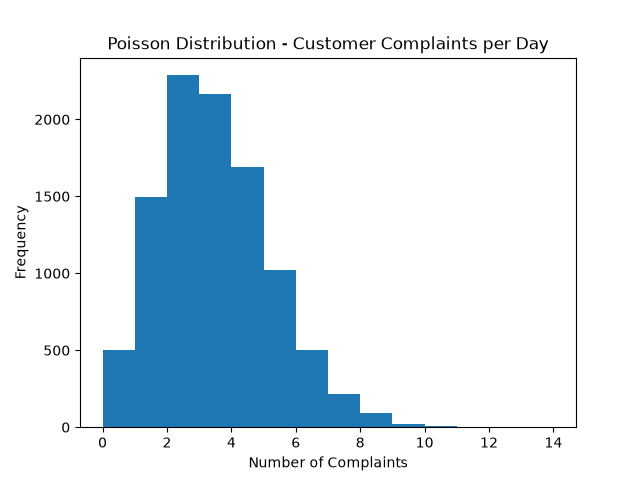
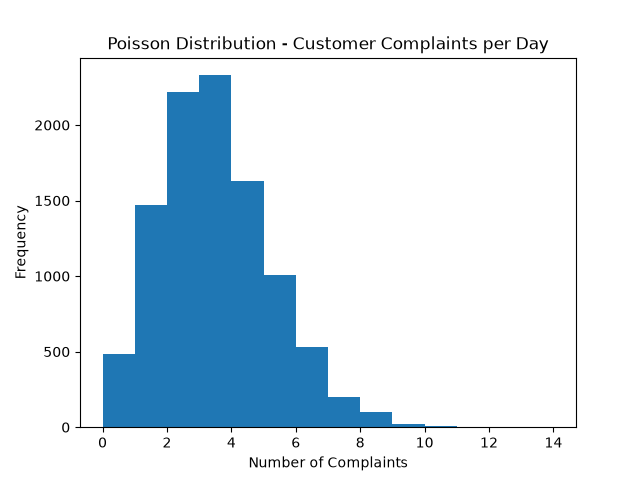
Phase 3 Lesson 6 - Hypothesis Testing and A/B Testing

diff --git a/phase3/lesson5_prob_dist.py b/phase3/lesson5_prob_dist.py
@@ -46,24 +46,98 @@ import matplotlib.pyplot as plt
 # plt.savefig("binomial_distribution.png")
 # plt.show()
 
-import random
+# import random
 
-def simulate_poisson(lambda_rate, n_experiments):
-    """Simulate number of events occurring, given average rate lambda_rate"""
-    results = []
-    for _ in range(n_experiments):
-        # Simple simulation: break the interval into many tiny slices, 
-        # each with small probability of an event
-        events = sum(1 for _ in range(1000) if random.random() < lambda_rate/1000)
-        results.append(events)
-    return results
+# def simulate_poisson(lambda_rate, n_experiments):
+#     """Simulate number of events occurring, given average rate lambda_rate"""
+#     results = []
+#     for _ in range(n_experiments):
+#         # Simple simulation: break the interval into many tiny slices, 
+#         # each with small probability of an event
+#         events = sum(1 for _ in range(1000) if random.random() < lambda_rate/1000)
+#         results.append(events)
+#     return results
 
-# Simulate: average 3 customer complaints per day, repeat 10000 days
-results = simulate_poisson(3, 10000)
+# # Simulate: average 3 customer complaints per day, repeat 10000 days
+# results = simulate_poisson(3, 10000)
 
-plt.hist(results, bins=range(15))
-plt.title("Poisson Distribution - Customer Complaints per Day")
-plt.xlabel("Number of Complaints")
-plt.ylabel("Frequency")
-plt.savefig("poisson_distribution.png")
-plt.show()
+# plt.hist(results, bins=range(15))
+# plt.title("Poisson Distribution - Customer Complaints per Day")
+# plt.xlabel("Number of Complaints")
+# plt.ylabel("Frequency")
+# plt.savefig("poisson_distribution.png")
+# plt.show()
+
+
+# # import random
+
+# # def simulate_ab_test_under_null(n_users, true_click_rate, n_simulations):
+# #     """
+# #     Simulates running the SAME button (no real difference) on two groups,
+# #     many times, to see how much random variation we'd expect by chance alone.
+# #     """
+# #     differences = []
+    
+# #     for _ in range(n_simulations):
+# #         # Simulate group A
+# #         clicks_a = sum(1 for _ in range(n_users) if random.random() < true_click_rate)
+# #         # Simulate group B — SAME true rate, since H0 assumes no real difference
+# #         clicks_b = sum(1 for _ in range(n_users) if random.random() < true_click_rate)
+        
+# #         rate_a = clicks_a / n_users
+# #         rate_b = clicks_b / n_users
+# #         differences.append(rate_b - rate_a)
+    
+# #     return differences
+
+# # # Simulate 1000 users per group, true rate 10%, repeat 10000 times
+# # diffs = simulate_ab_test_under_null(1000, 0.10, 10000)
+
+# # import matplotlib.pyplot as plt
+# # plt.hist(diffs, bins=50)
+# # plt.title("Distribution of Differences Under Null Hypothesis (No Real Effect)")
+# # plt.xlabel("Difference in Click Rate (B - A)")
+# # plt.savefig("null_distribution.png")
+# # plt.show()
+
+# # # Our actual observed difference was 11.2% - 10% = 1.2%
+# # observed_diff = 0.112 - 0.100
+
+# # # How many of our simulated "no real difference" trials produced 
+# # # a difference AT LEAST as extreme as what we observed?
+# # extreme_count = sum(1 for d in diffs if abs(d) >= abs(observed_diff))
+# # p_value = extreme_count / len(diffs)
+
+# # print(f"Observed difference: {observed_diff:.4f}")
+# # print(f"P-value: {p_value:.4f}")
+
+# import random
+
+# def simulate_ab_test_under_null(n_users, true_click_rate, n_simulations):
+#     differences = []
+#     for _ in range(n_simulations):
+#         clicks_a = sum(1 for _ in range(n_users) if random.random() < true_click_rate)
+#         clicks_b = sum(1 for _ in range(n_users) if random.random() < true_click_rate)
+#         rate_a = clicks_a / n_users
+#         rate_b = clicks_b / n_users
+#         differences.append(rate_b - rate_a)
+#     return differences
+
+# diffs = simulate_ab_test_under_null(1000, 0.10, 10000)
+
+# observed_diff = 0.112 - 0.100
+# extreme_count = sum(1 for d in diffs if abs(d) >= abs(observed_diff))
+# p_value = extreme_count / len(diffs)
+
+# print(f"Observed difference: {observed_diff:.4f}")
+# print(f"P-value: {p_value:.4f}")
+
+
+from scipy import stats
+import numpy as np
+
+group_a = np.array([1]*100 + [0]*900)
+group_b = np.array([1]*112 + [0]*888)
+
+t_stat, p_value = stats.ttest_ind(group_a, group_b)
+print(f"P-value: {p_value:.4f}")

diff --git a/phase3/lesson7_ab_testing.py b/phase3/lesson7_ab_testing.py
@@ -1,0 +1,104 @@
+import random
+
+def simulate_ab_test_under_null(n_users, true_click_rate, n_simulations):
+    """
+    Simulates running the SAME button (no real difference) on two groups,
+    many times, to see how much random variation we'd expect by chance alone.
+    """
+    differences = []
+    
+    for _ in range(n_simulations):
+        # Simulate group A
+        clicks_a = sum(1 for _ in range(n_users) if random.random() < true_click_rate)
+        # Simulate group B — SAME true rate, since H0 assumes no real difference
+        clicks_b = sum(1 for _ in range(n_users) if random.random() < true_click_rate)
+        
+        rate_a = clicks_a / n_users
+        rate_b = clicks_b / n_users
+        differences.append(rate_b - rate_a)
+    
+    return differences
+
+# Simulate 1000 users per group, true rate 10%, repeat 10000 times
+diffs = simulate_ab_test_under_null(1000, 0.10, 10000)
+
+import matplotlib.pyplot as plt
+plt.hist(diffs, bins=50)
+plt.title("Distribution of Differences Under Null Hypothesis (No Real Effect)")
+plt.xlabel("Difference in Click Rate (B - A)")
+plt.savefig("null_distribution.png")
+plt.show()
+
+# Our actual observed difference was 11.2% - 10% = 1.2%
+observed_diff = 0.112 - 0.100
+
+# How many of our simulated "no real difference" trials produced 
+# a difference AT LEAST as extreme as what we observed?
+extreme_count = sum(1 for d in diffs if abs(d) >= abs(observed_diff))
+p_value = extreme_count / len(diffs)
+
+print(f"Observed difference: {observed_diff:.4f}")
+print(f"P-value: {p_value:.4f}")
+
+
+
+
+
+import random
+
+def simulate_fair_coin_100_flips():
+    """One experiment: flip a fair coin 100 times, count heads"""
+    heads = sum(1 for _ in range(100) if random.random() < 0.5)
+    return heads
+
+# Repeat this experiment 10000 times
+results = [simulate_fair_coin_100_flips() for _ in range(10000)]
+
+print(results[:20])    # show first 20 results, just to look at them
+
+
+
+import random
+
+def simulate_ab_test_under_null(n_users, true_click_rate, n_simulations):
+    differences = []
+    for _ in range(n_simulations):
+        clicks_a = sum(1 for _ in range(n_users) if random.random() < true_click_rate)
+        clicks_b = sum(1 for _ in range(n_users) if random.random() < true_click_rate)
+        rate_a = clicks_a / n_users
+        rate_b = clicks_b / n_users
+        differences.append(rate_b - rate_a)
+    return differences
+
+diffs = simulate_ab_test_under_null(1000, 0.10, 10000)
+
+observed_diff = 0.112 - 0.100
+extreme_count = sum(1 for d in diffs if abs(d) >= abs(observed_diff))
+p_value = extreme_count / len(diffs)
+
+print(f"Observed difference: {observed_diff:.4f}")
+print(f"P-value: {p_value:.4f}")
+
+
+
+from scipy import stats
+
+# Group A (old button): 100 clicks out of 1000
+# Group B (new button): 112 clicks out of 1000
+
+import numpy as np
+group_a = np.array([1]*100 + [0]*900)     # 100 clicks, 900 no-clicks
+group_b = np.array([1]*112 + [0]*888)      # 112 clicks, 888 no-clicks
+
+t_stat, p_value = stats.ttest_ind(group_a, group_b)
+print(f"P-value: {p_value:.4f}")
+
+
+from scipy import stats
+import numpy as np
+
+group_a = np.array([1]*100 + [0]*900)
+group_b = np.array([1]*112 + [0]*888)
+
+t_stat, p_value = stats.ttest_ind(group_a, group_b)
+print(f"P-value: {p_value:.4f}")

diff --git a/phase2/pyas.py b/phase2/pyas.py
@@ -1,0 +1,67 @@
+#Shopping bill calculator
+n=int(input("Enter the number of items :"))
+total = 0
+
+for i in range(n):
+    item = input("Enter the name of item : ")
+    price = float(input("Enter the price of item : "))
+    quantity = int(input(("Enter the quantity of purchased item : ")))
+
+    amount = price*quantity
+    total = total + amount 
+
+    print(f"{item} - ₹  {amount :.2f}")
+
+if total >= 5000:
+    discount_rate = 20
+elif total >= 3000:
+    discount_rate = 15
+elif total >= 1000:
+    discount_rate = 10
+else:
+    discount_rate = 0
+
+discount = total * discount_rate / 100
+amount_after_discount = total - discount
+
+gst = amount_after_discount * .18
+
+final_amount = amount_after_discount + gst
+
+print("==============================SHOPPING BILL================================")
+print(f"Total          : ₹{total:.2f}")
+print(f"Discount ({discount_rate}%) : ₹{discount:.2f}")
+print(f"Amount after Disc. : ₹{amount_after_discount:.2f}")
+print(f"GST (18%)          : ₹{gst:.2f}")
+print("----------------------------")
+print(f"Final Payable      : ₹{final_amount:.2f}")
+print("===========================================================================")
+
+
+
+
+# # Library Fine Calculator
+
+# student_name = input("Enter student name: ")
+# book_name = input("Enter book name: ")
+# late_days = int(input("Enter number of late days: "))
+
+# if late_days <= 0:
+#     fine = 0
+# elif late_days <= 5:
+#     fine = late_days * 2
+# elif late_days <= 10:
+#     fine = late_days * 5
+# else:
+#     fine = late_days * 10
+
+# print("============================================")
+# print("          LIBRARY FINE")
+# print("============================================")
+
+# print(f"Student Name : {student_name}")
+# print(f"Book Name    : {book_name}")
+# print(f"Late Days    : {late_days}")
+# print(f"Total Fine   : ₹{fine}")
+
+# print("============================================")

diff --git a/phase3/lesso4_hypothesis.py b/phase3/lesso4_hypothesis.py
@@ -1,0 +1,41 @@
+import random
+
+def simulate_ab_test_under_null(n_users, true_click_rate, n_simulations):
+    """
+    Simulates running the SAME button (no real difference) on two groups,
+    many times, to see how much random variation we'd expect by chance alone.
+    """
+    differences = []
+    
+    for _ in range(n_simulations):
+        # Simulate group A
+        clicks_a = sum(1 for _ in range(n_users) if random.random() < true_click_rate)
+        # Simulate group B — SAME true rate, since H0 assumes no real difference
+        clicks_b = sum(1 for _ in range(n_users) if random.random() < true_click_rate)
+        
+        rate_a = clicks_a / n_users
+        rate_b = clicks_b / n_users
+        differences.append(rate_b - rate_a)
+    
+    return differences
+
+# Simulate 1000 users per group, true rate 10%, repeat 10000 times
+diffs = simulate_ab_test_under_null(1000, 0.10, 10000)
+
+import matplotlib.pyplot as plt
+plt.hist(diffs, bins=50)
+plt.title("Distribution of Differences Under Null Hypothesis (No Real Effect)")
+plt.xlabel("Difference in Click Rate (B - A)")
+plt.savefig("null_distribution.png")
+plt.show()
+
+# Our actual observed difference was 11.2% - 10% = 1.2%
+observed_diff = 0.112 - 0.100
+
+# How many of our simulated "no real difference" trials produced 
+# a difference AT LEAST as extreme as what we observed?
+extreme_count = sum(1 for d in diffs if abs(d) >= abs(observed_diff))
+p_value = extreme_count / len(diffs)
+
+print(f"Observed difference: {observed_diff:.4f}")
+print(f"P-value: {p_value:.4f}")
